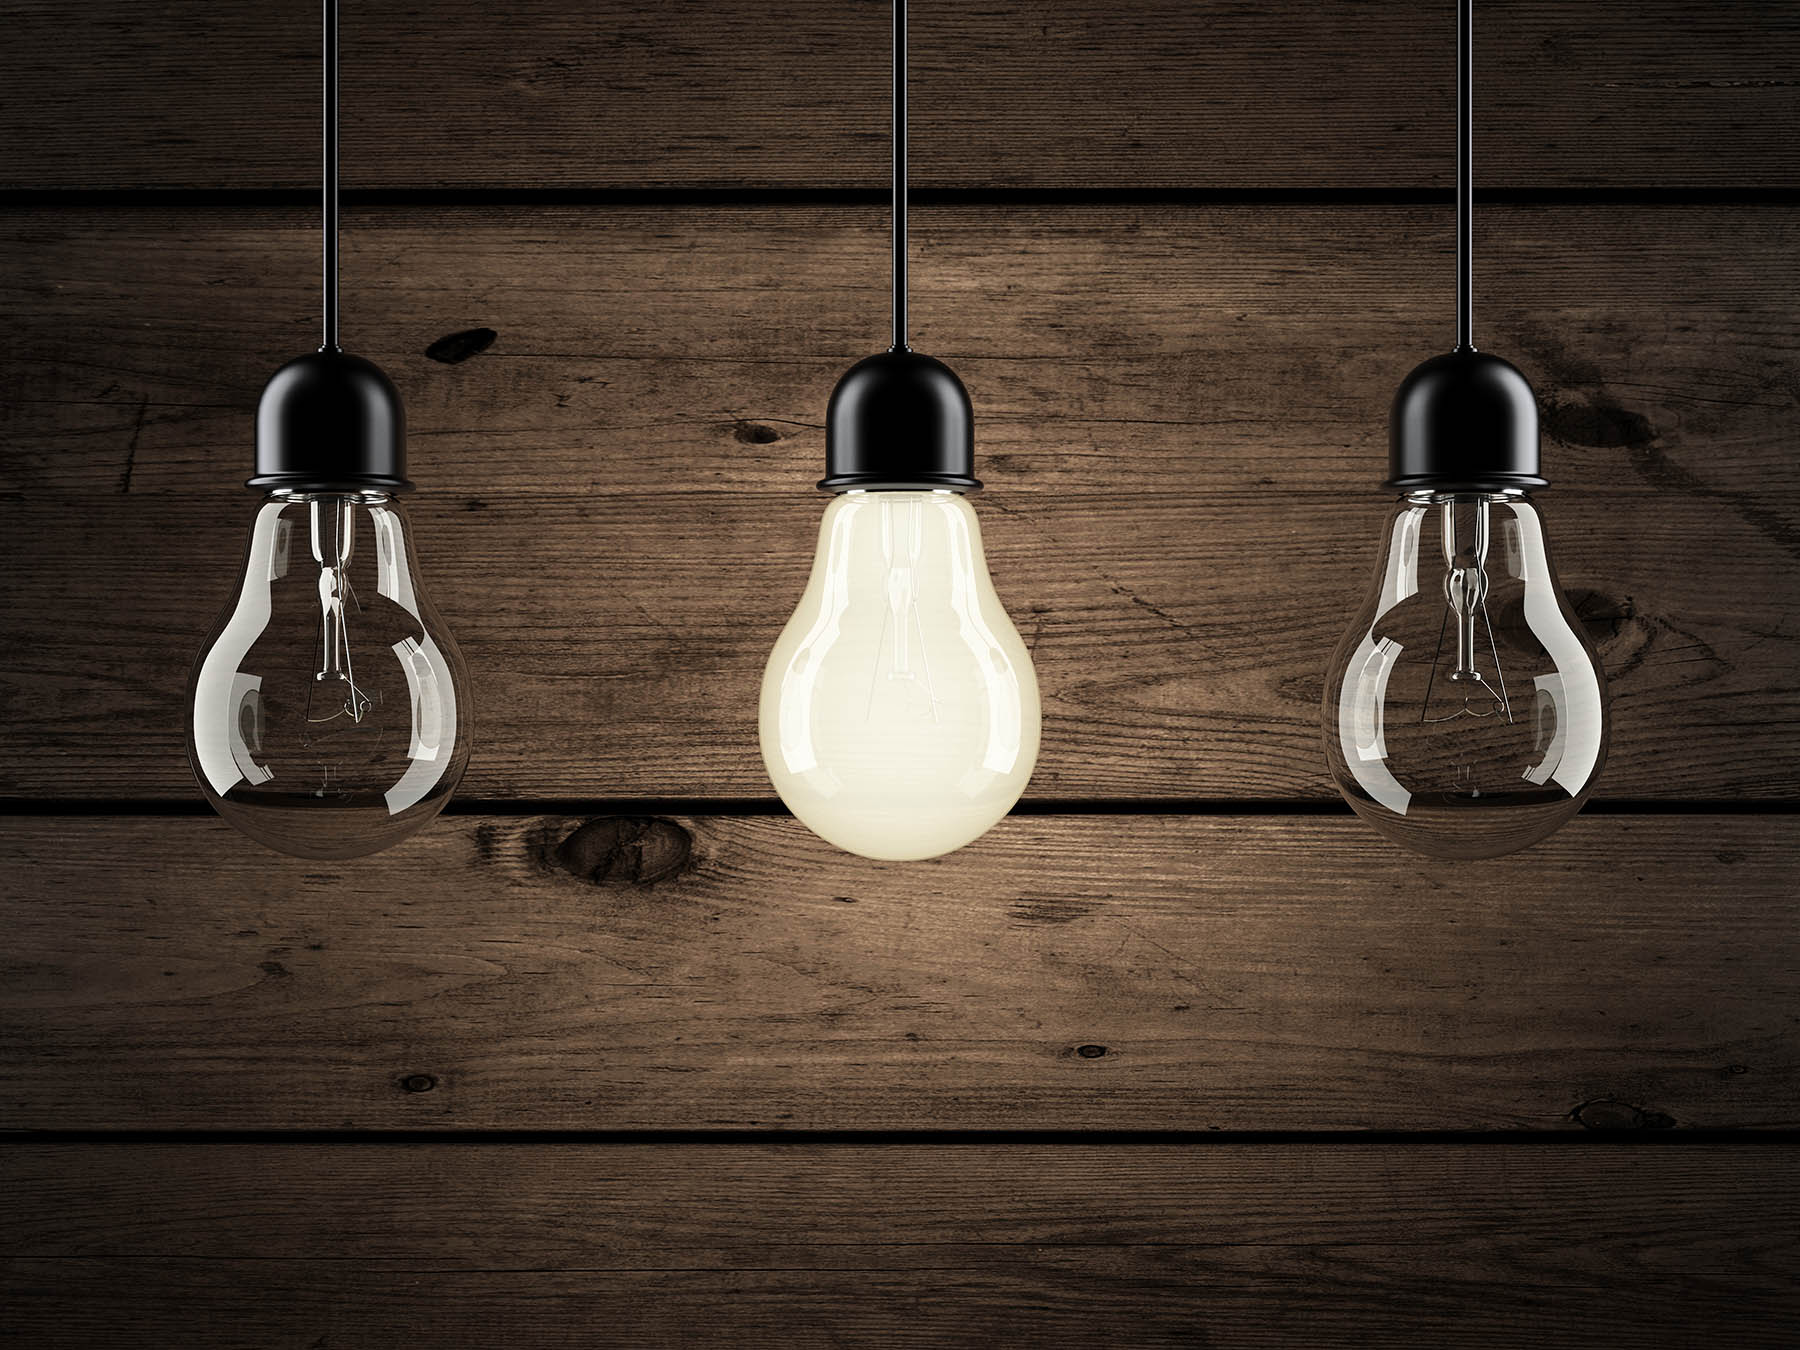
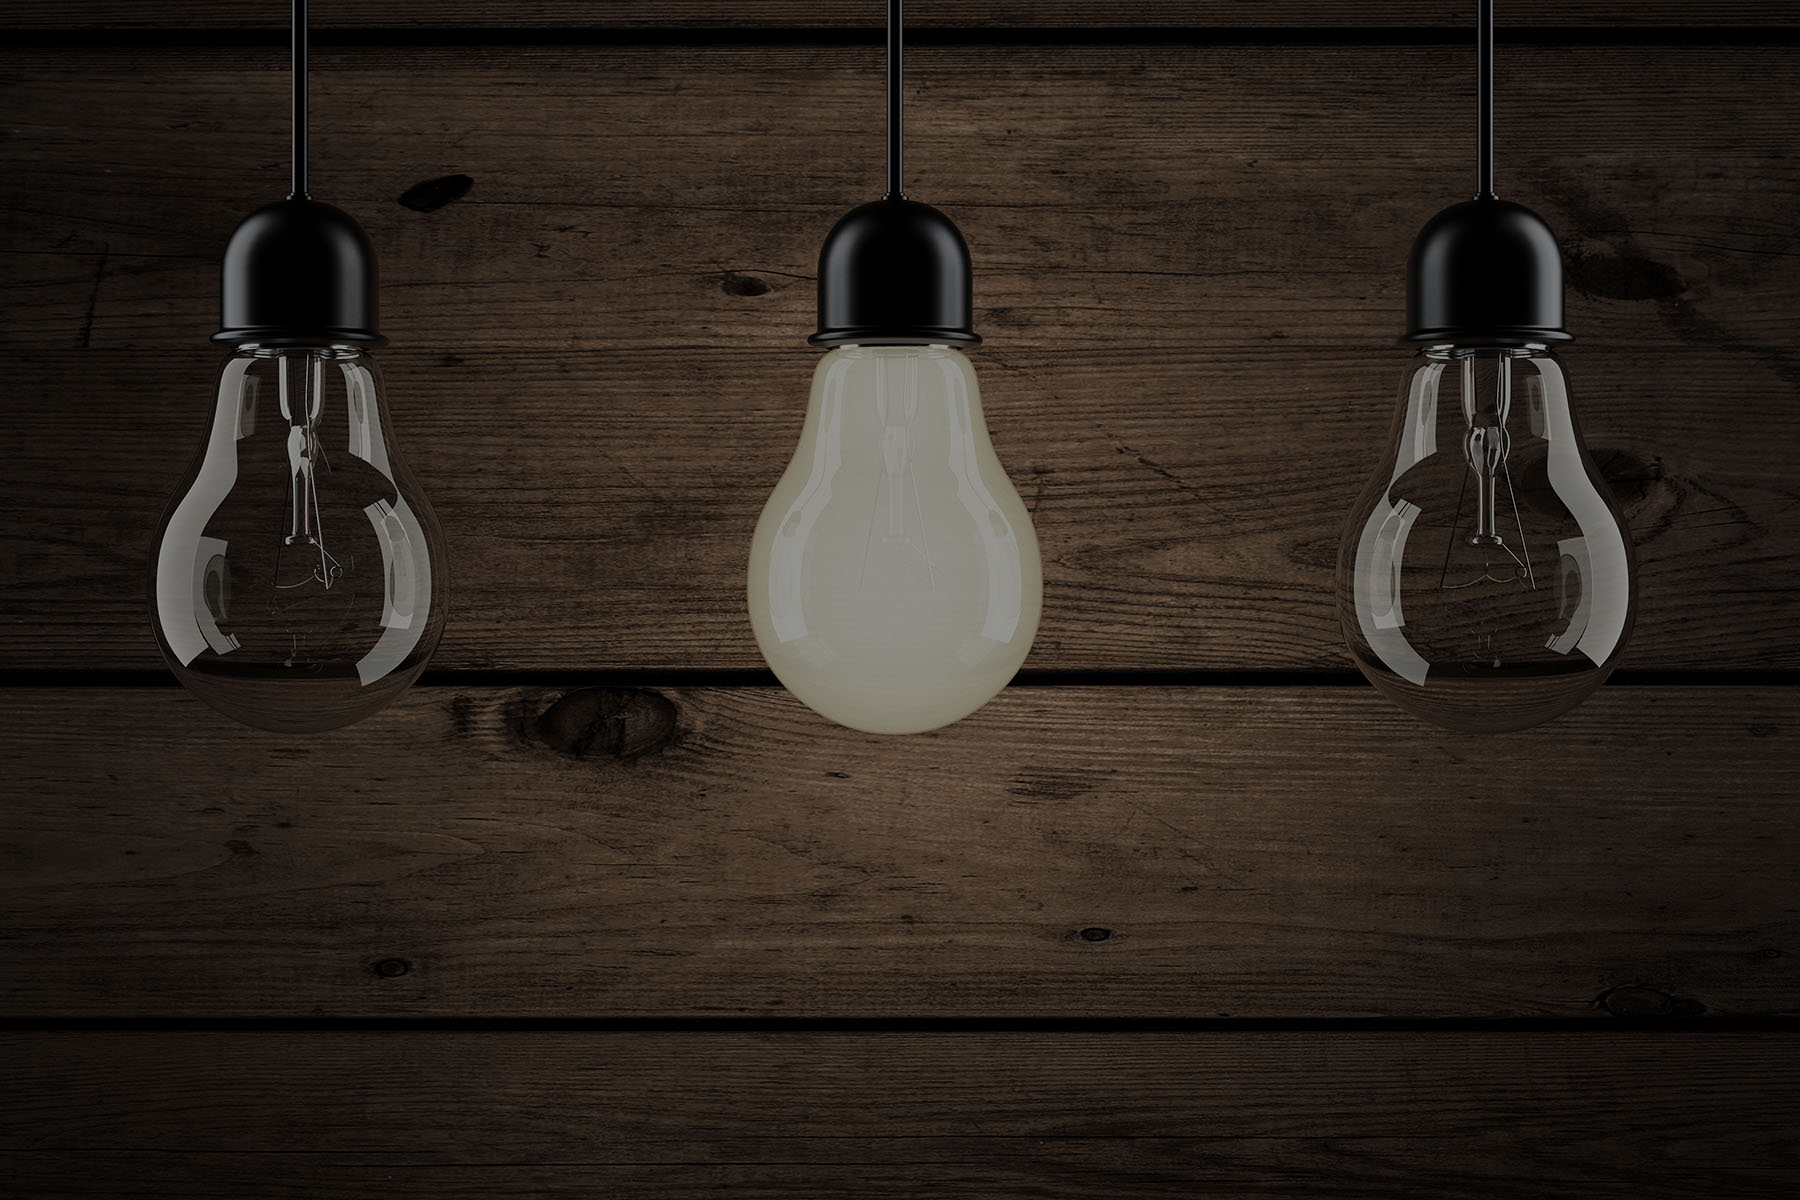
various design tweaks

diff --git a/app/assets/stylesheets/site/hero_header.scss b/app/assets/stylesheets/site/hero_header.scss
@@ -18,7 +18,7 @@
 
 .heroHeader__text {
   position:absolute;
-  bottom:10vh;
+  bottom:15vh;
   width:100%;
   text-align:center;
 }
@@ -63,6 +63,21 @@
   }
 }
 
+.heroHeader--style1 {
+  background-image:image-url('hero2.jpg');
+  .heroHeader__intro {
+    color:#a4d4e9;
+  }
+}
+
+.heroHeader--style2 {
+  background-image:image-url('hero3.jpg');
+  .heroHeader__intro {
+    color:#cadfc0;
+  }
+}
+
+
 @media (max-width:900px) {
   .heroHeader__title {
     font-size:50px;
@@ -71,13 +86,16 @@
 
 @media (max-width:650px) {
   .heroHeader__title {
-    font-size:40px;
+    font-size:37px;
+    margin-bottom:10px;
   }
   .heroHeader__intro {
     font-size:15px;
     line-height:20px;
   }
-
+  .heroHeader__buttons li {
+    margin:0 10px;
+  }
 }
 
 @media (max-width:450px) {

diff --git a/app/assets/stylesheets/application.scss b/app/assets/stylesheets/application.scss
@@ -7,7 +7,7 @@
 html { font-family:'Source Sans Pro', 'Helvetica Neue', Arial, sans-serif; font-size:14px;}
 body.development { border-left:2px solid #fff;}
 
-.pageContainer { max-width:950px; margin:auto; padding:0 25px;}
+.pageContainer { max-width:950px; margin:auto; padding:0 25px; position:relative; }
 
 @media (max-width:900px) {
   body.development { border-color:red;}

diff --git a/app/assets/stylesheets/site/features_page.scss b/app/assets/stylesheets/site/features_page.scss
@@ -5,7 +5,6 @@
 .featurePage__heading {
   text-align:center;
   font-size:50px;
-  color:#534133;
   font-weight:900;
   margin-bottom:10px;
   letter-spacing:-0.04em;
